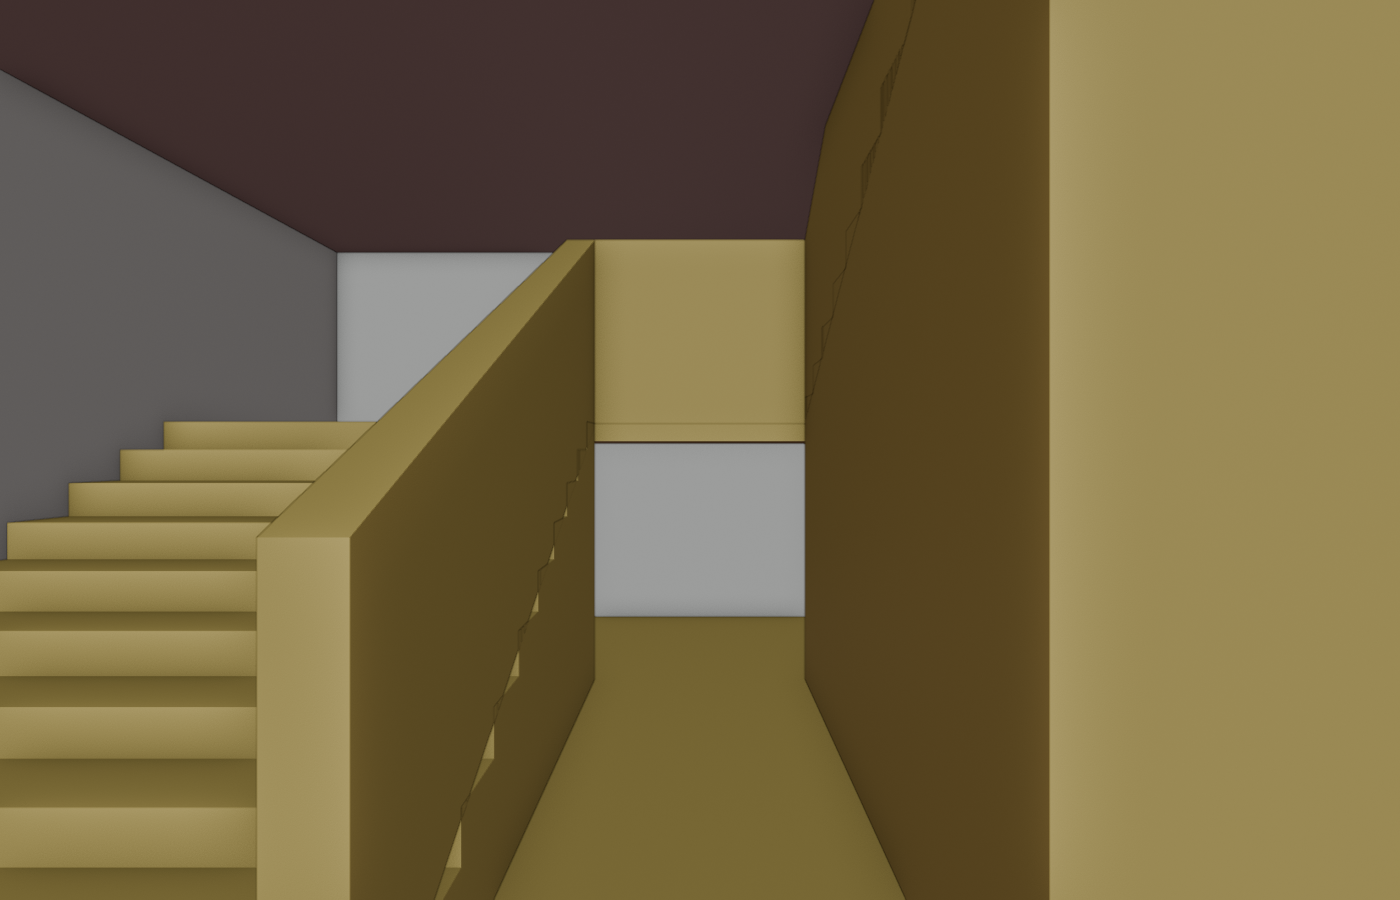
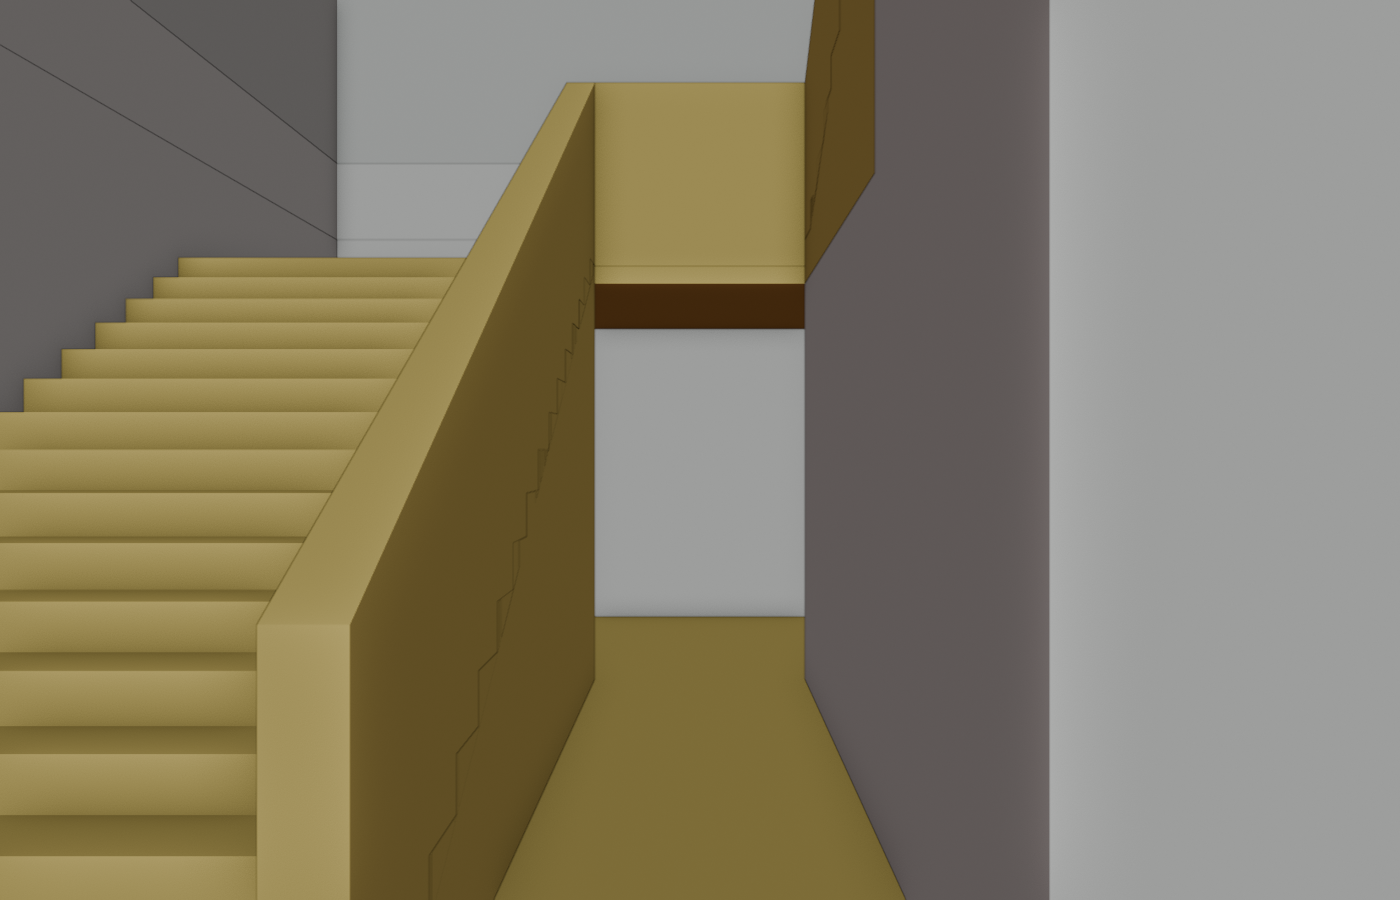
docs: 学校追加テストと今後の教室用途を更新

diff --git a/scripts/v2/render_school_blockout_previews.py b/scripts/v2/render_school_blockout_previews.py
@@ -1,0 +1,110 @@
+from pathlib import Path
+
+import bpy
+
+
+REPOSITORY_ROOT = Path(__file__).resolve().parents[2]
+BLEND_PATH = REPOSITORY_ROOT / "assets/blender/v2/B02/b02_school_blockout.blend"
+OUTPUT_DIRECTORY = REPOSITORY_ROOT / "docs/plans/v2/B02/images"
+
+PREVIEWS = (
+    ("GUIDE_Camera_Top", "b02_blockout_top.png"),
+    ("GUIDE_Camera_Iso", "b02_blockout_iso.png"),
+    ("GUIDE_Camera_Eye", "b02_blockout_eye.png"),
+)
+
+
+def main() -> None:
+    if not bpy.app.background:
+        raise RuntimeError("確認画像生成はBlenderの--background実行専用です")
+    if Path(bpy.data.filepath) != BLEND_PATH:
+        raise RuntimeError(f"現ブランチ側B02ではありません: {bpy.data.filepath}")
+    if bpy.data.is_dirty:
+        raise RuntimeError("確認画像生成前のB02に未保存変更があります")
+
+    for camera_name, _filename in PREVIEWS:
+        camera = bpy.data.objects.get(camera_name)
+        if camera is None or camera.type != "CAMERA":
+            raise RuntimeError(f"確認画像用Cameraがありません: {camera_name}")
+
+    scene = bpy.context.scene
+    original_hide_render = {
+        obj.name: obj.hide_render for obj in bpy.data.objects
+    }
+    original_settings = {
+        "camera": scene.camera,
+        "engine": scene.render.engine,
+        "light": scene.display.shading.light,
+        "color_type": scene.display.shading.color_type,
+        "show_shadows": scene.display.shading.show_shadows,
+        "show_cavity": scene.display.shading.show_cavity,
+        "cavity_type": scene.display.shading.cavity_type,
+        "show_specular_highlight": scene.display.shading.show_specular_highlight,
+        "resolution_x": scene.render.resolution_x,
+        "resolution_y": scene.render.resolution_y,
+        "resolution_percentage": scene.render.resolution_percentage,
+        "file_format": scene.render.image_settings.file_format,
+        "film_transparent": scene.render.film_transparent,
+        "filepath": scene.render.filepath,
+    }
+
+    rendered = []
+    try:
+        for obj in bpy.data.objects:
+            obj.hide_render = obj.name.startswith(
+                ("COL_", "NAV_", "META_", "MRK_", "VOL_", "BND_")
+            )
+
+        scene.render.engine = "BLENDER_WORKBENCH"
+        scene.display.shading.light = "STUDIO"
+        scene.display.shading.color_type = "MATERIAL"
+        scene.display.shading.show_shadows = True
+        scene.display.shading.show_cavity = True
+        scene.display.shading.cavity_type = "WORLD"
+        scene.display.shading.show_specular_highlight = False
+        scene.render.resolution_x = 1400
+        scene.render.resolution_y = 900
+        scene.render.resolution_percentage = 100
+        scene.render.image_settings.file_format = "PNG"
+        scene.render.film_transparent = False
+
+        OUTPUT_DIRECTORY.mkdir(parents=True, exist_ok=True)
+        for camera_name, filename in PREVIEWS:
+            output_path = OUTPUT_DIRECTORY / filename
+            scene.camera = bpy.data.objects[camera_name]
+            scene.render.filepath = str(output_path)
+            bpy.ops.render.render(write_still=True)
+            rendered.append(
+                {
+                    "camera": camera_name,
+                    "path": str(output_path),
+                    "bytes": output_path.stat().st_size,
+                }
+            )
+    finally:
+        for name, hide_render in original_hide_render.items():
+            bpy.data.objects[name].hide_render = hide_render
+        scene.camera = original_settings["camera"]
+        scene.render.engine = original_settings["engine"]
+        scene.display.shading.light = original_settings["light"]
+        scene.display.shading.color_type = original_settings["color_type"]
+        scene.display.shading.show_shadows = original_settings["show_shadows"]
+        scene.display.shading.show_cavity = original_settings["show_cavity"]
+        scene.display.shading.cavity_type = original_settings["cavity_type"]
+        scene.display.shading.show_specular_highlight = original_settings[
+            "show_specular_highlight"
+        ]
+        scene.render.resolution_x = original_settings["resolution_x"]
+        scene.render.resolution_y = original_settings["resolution_y"]
+        scene.render.resolution_percentage = original_settings[
+            "resolution_percentage"
+        ]
+        scene.render.image_settings.file_format = original_settings["file_format"]
+        scene.render.film_transparent = original_settings["film_transparent"]
+        scene.render.filepath = original_settings["filepath"]
+
+    print({"blend": bpy.data.filepath, "rendered": rendered})
+
+
+if __name__ == "__main__":
+    main()
